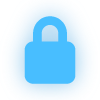
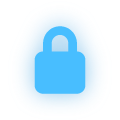
update shutdown img;delete areachanged in shutdown.c

Changed region(s): [[0.24, 0.15, 0.78, 0.9]]

diff --git a/resources/shutdown/css/shutdown.css b/resources/shutdown/css/shutdown.css
@@ -26,7 +26,7 @@ body{
     /*z-index:65535;*/
     cursor:default;
     overflow:hidden;
-    background-color:rgba(0,0,0,0.5)
+    background-color:rgba(0,0,0,0.7)
     /*-webkit-user-select:none;*/
 }
 
@@ -52,43 +52,32 @@ body{
 }
 
 .opt:nth-child(even){
-    margin:10px 10px 10px 10px;
+    margin:0 10px 0 10px;
     /*-webkit-animation:fade_animation 3s;*/
 }
 
 
 .opt:nth-child(odd){
-    margin:10px 10px 10px 10px;
+    margin:0 10px 0 10px;
 }
 
 .opt_img{
-    width:100px;
-    height:100px;
+    width:80px;
+    height:80px;
     cursor: pointer;
 }
 
 .opt_text{
     height:30px;
     line-height:30px;
-    width:100px;
+    width:80px;
     cursor: pointer;
     text-align:center;
     color: #FFF;
-    font-size:large;
-    font-weight: bold;
-    text-shadow: 0 0 2px #808080;
-}
-.message{
-    height:40px;
-    width:100%;
-    line-height:40px;
-    text-align:center;
-    color: #FFF;
-    font-size:large;
-    font-weight: bold;
-    text-shadow: 0 0 2px #808080;
-}
+    font-size:14px;
+    text-shadow: 0 2px 2px rgba(0,0,0,0.5);
 
+}
 
 @-webkit-keyframes fade_animation0{
     to{left:120px;opacity:0.0;}
@@ -125,31 +114,31 @@ body{
 }
 
 .frame_confirm{
-    margin-left:100px;
-    margin-bottom:40px;
     display:-webkit-box;
 }
 
-.img_url{
-    width:100px;
-    height:100px;
+.left{
+    margin-left:135px;
 }
-
+.img_confirm{
+    width:80px;
+    height:80px;
+}
 .text_img{
     height:30px;
     line-height:30px;
-    width:100px;
+    width:80px;
+    cursor: pointer;
     text-align:center;
     color: #FFF;
-    font-size:large;
-    font-weight: bold;
-    text-shadow: 0 0 2px #808080;
+    font-size:14px;
+    text-shadow: 0 2px 2px rgba(0,0,0,0.5);
 }
 
 .right{
     opacity:0.0;
     margin-left:50px;
-    margin-top:30px;
+    margin-top:10px;
 }
 .message_confirm{
     height:30px;

diff --git a/app/shutdown/shutdown.c b/app/shutdown/shutdown.c
@@ -57,51 +57,12 @@ PRIVATE GtkWidget* webview = NULL;
 PRIVATE GSettings* dde_bg_g_settings = NULL;
 PRIVATE gboolean is_js_already = FALSE;
 
-
-PRIVATE
-void _update_size(GdkScreen *screen, GtkWidget* container)
-{
-    gtk_widget_set_size_request(container, gdk_screen_width(), gdk_screen_height());
-}
-
-
-PRIVATE
-void _on_realize(GtkWidget* container)
-{
-    GdkScreen* screen =  gdk_screen_get_default();
-    _update_size(screen, container);
-    g_signal_connect(screen, "size-changed", G_CALLBACK(_update_size), container);
-    if (is_js_already)
-        background_changed(dde_bg_g_settings, CURRENT_PCITURE, NULL);
-}
-
-
 JS_EXPORT_API
 void shutdown_quit()
 {
     g_key_file_free(shutdown_config);
     g_object_unref(dde_bg_g_settings);
     gtk_main_quit();
-}
-
-
-PRIVATE
-void shutdown_notify_workarea_size()
-{
-    JSObjectRef workarea_info = json_create();
-    json_append_number(workarea_info, "x", 0);
-    json_append_number(workarea_info, "y", 0);
-    json_append_number(workarea_info, "width", gdk_screen_width());
-    json_append_number(workarea_info, "height", gdk_screen_height());
-    js_post_message("workarea_changed", workarea_info);
-}
-
-
-PRIVATE
-void shutdown_webview_ok()
-{
-    background_changed(dde_bg_g_settings, CURRENT_PCITURE, NULL);
-    is_js_already = TRUE;
 }
 
 
@@ -150,11 +111,7 @@ int main (int argc, char **argv)
     gtk_container_add (GTK_CONTAINER(container), GTK_WIDGET (webview));
 
 
-    g_signal_connect(container, "realize", G_CALLBACK(_on_realize), NULL);
-    g_signal_connect (container, "destroy", G_CALLBACK(gtk_main_quit), NULL);
     dde_bg_g_settings = g_settings_new(SCHEMA_ID);
-    g_signal_connect(dde_bg_g_settings, "changed::"CURRENT_PCITURE,
-                     G_CALLBACK(background_changed), NULL);
 
 
     gtk_widget_realize (container);
